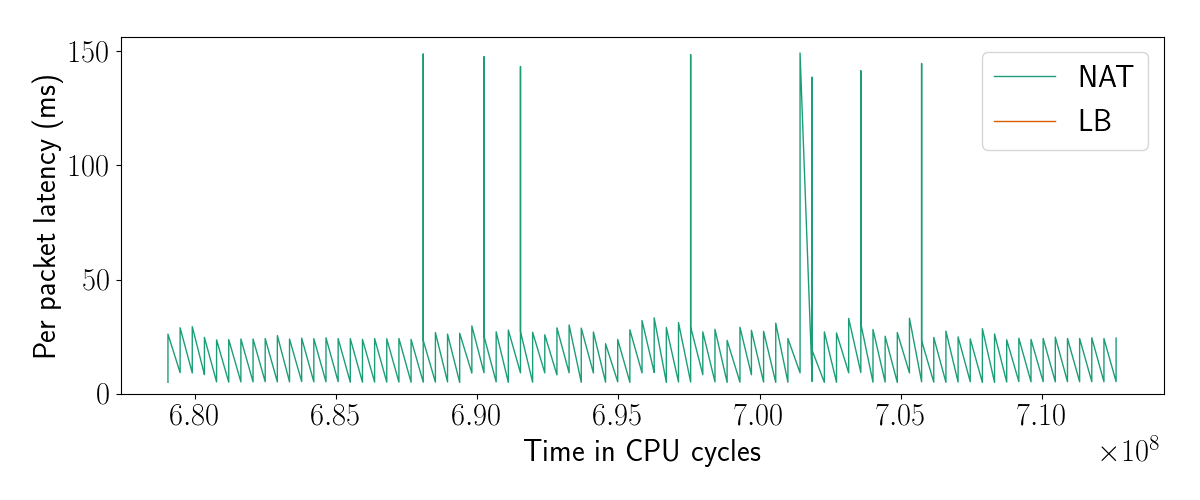
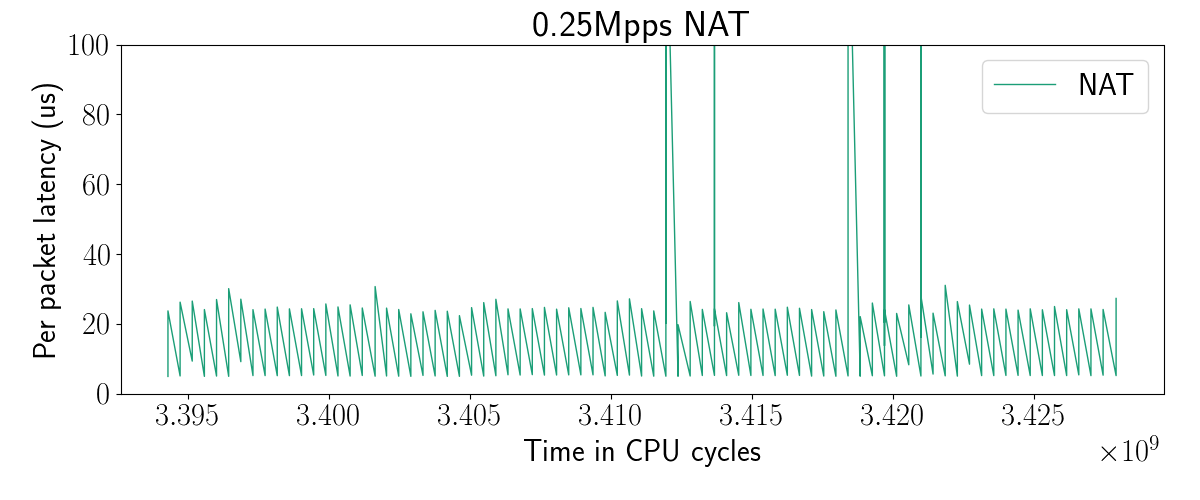
add nat-mag colation figures

diff --git a/nat_maglev.py b/nat_maglev.py
@@ -45,7 +45,7 @@ y_val_nat = list()
 x_val_mag = list()
 y_val_mag = list()
 
-x_low = 339399072 * 2
+x_low = 339399072 * 10
 x_high = x_low + 339399072/10
 
 
@@ -79,6 +79,8 @@ def data_load(filename):
         # currently we only load the data of the first file
         # break 
 
+# 0x, 1x, 3x, 5x. in %
+pkt_loss_rate = [0.0079, 0.0746, 0.2510, 0.4387]
 
 def draw_nat_maglev(filename):
     x_val_nat.clear()
@@ -97,29 +99,38 @@ def draw_nat_maglev(filename):
     y_val_mag_ad = y_val_mag
 
 
-    p1, = plt.plot(x_val_nat_ad, y_val_nat_ad, linestyle = linestyles[cnt], marker = None, color=colors[cnt], linewidth=1)
+    p1, = plt.plot(x_val_nat_ad, y_val_nat_ad, linestyle = linestyles[cnt], color=colors[cnt], linewidth=1)
     cnt += 1
-    p2, = plt.plot(x_val_mag_ad, y_val_mag_ad, linestyle = linestyles[cnt], marker = None, color=colors[cnt], linewidth=1)
-    cnt += 1
+    # p2, = plt.plot(x_val_mag_ad, y_val_mag_ad, linestyle = linestyles[cnt], marker = None, color=colors[cnt], linewidth=1)
+    # cnt += 1
 
     legends.append(p1)
-    legends.append(p2)
+    # legends.append(p2)
 
 
     plt.legend(legends, ["NAT", "LB"])
-    plt.ylabel('Per packet latency (ms)')
+    plt.ylabel('Per packet latency (us)')
     plt.xlabel('Time in CPU cycles')
 
     # apply offset transform to all x ticklabels.
     for label in plt.axes().xaxis.get_majorticklabels():
         label.set_transform(label.get_transform() + offset)
 
-    plt.axes().set_ylim(ymin=0)
+    plt.axes().set_ylim(ymin=0,ymax=100)
 
     plt.tight_layout()
 
     sufix_index = filename.find(".dat")
     sufix = filename[sufix_index - 2:sufix_index]
+    if sufix == "0x":
+        plt.title("0.25Mpps NAT")
+    elif sufix == "1x":
+        plt.title("0.25Mpps NAT vs. 0.25Mpps Maglev")
+    elif sufix == "3x":
+        plt.title("0.25Mpps NAT vs. 0.75Mpps Maglev")
+    elif sufix == "5x":
+        plt.title("0.25Mpps NAT vs. 1.25Mpps Maglev")
+
     # How maglev influces nat
     plt.savefig('./figures/two/%s_nat_maglev.png' % (sufix,))
     plt.clf()
